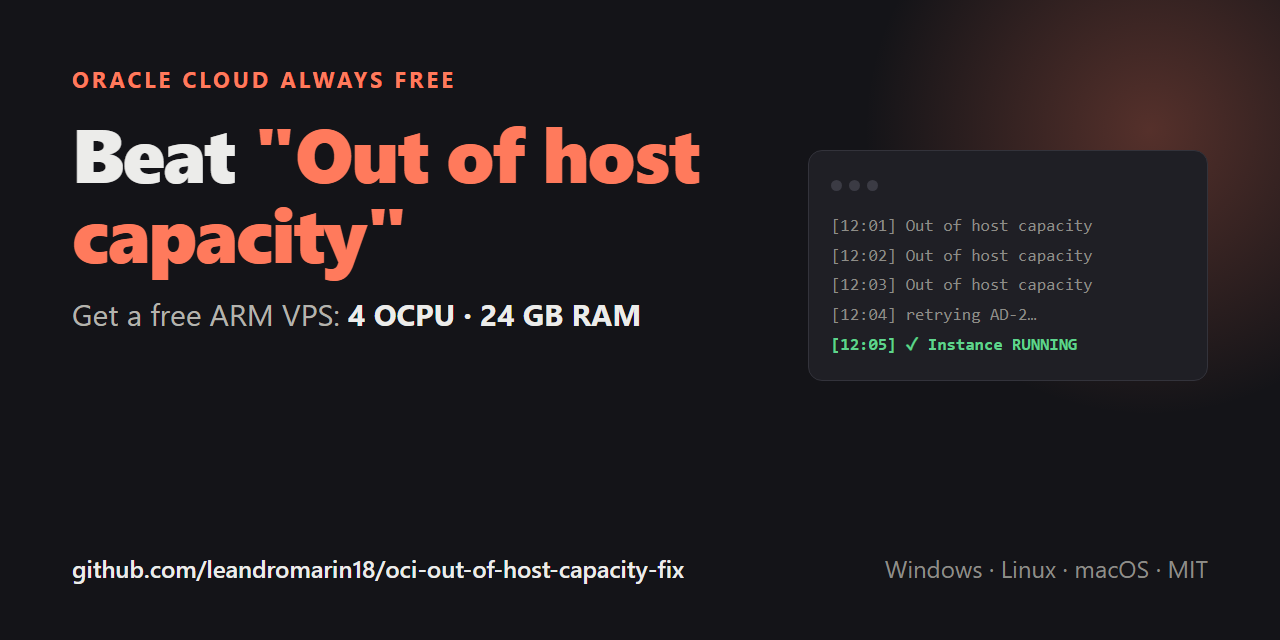
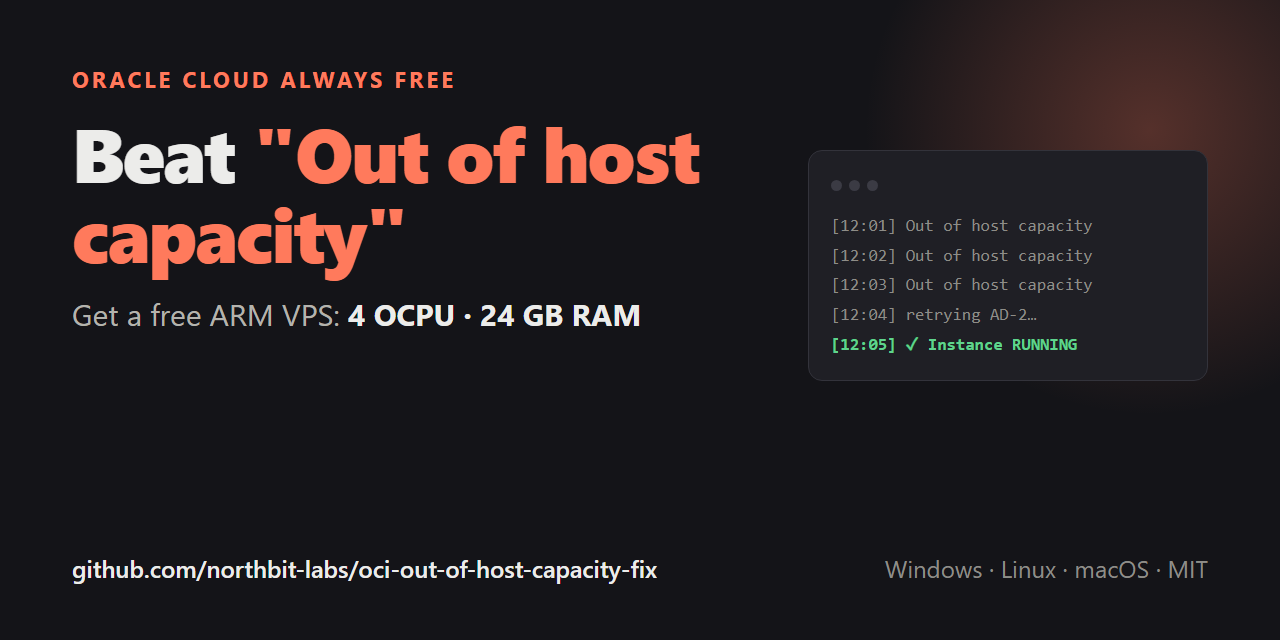
docs: move links to northbit-labs

Changed region(s): [[0.1562, 0.875, 0.5312, 0.9062]]

diff --git a/docs/index.html b/docs/index.html
@@ -5,13 +5,13 @@
 <meta name="viewport" content="width=device-width, initial-scale=1">
 <title>Fix "Out of host capacity" – Oracle Cloud Free Tier ARM VPS</title>
 <meta name="description" content="Get a free Oracle Cloud ARM VPS (Ampere A1, 4 OCPU / 24 GB RAM) despite &quot;Out of host capacity&quot;. Open-source launcher that retries every minute on Windows, Linux and macOS.">
-<link rel="canonical" href="https://leandromarin18.github.io/oci-out-of-host-capacity-fix/">
-<link rel="alternate" hreflang="en" href="https://leandromarin18.github.io/oci-out-of-host-capacity-fix/">
+<link rel="canonical" href="https://northbit-labs.github.io/oci-out-of-host-capacity-fix/">
+<link rel="alternate" hreflang="en" href="https://northbit-labs.github.io/oci-out-of-host-capacity-fix/">
 <meta property="og:type" content="website">
 <meta property="og:title" content="Fix &quot;Out of host capacity&quot; on Oracle Cloud Free Tier">
 <meta property="og:description" content="Free ARM VPS, 4 OCPU / 24 GB RAM. This launcher retries until Oracle has room, then notifies you.">
-<meta property="og:url" content="https://leandromarin18.github.io/oci-out-of-host-capacity-fix/">
-<meta property="og:image" content="https://leandromarin18.github.io/oci-out-of-host-capacity-fix/og-image.png">
+<meta property="og:url" content="https://northbit-labs.github.io/oci-out-of-host-capacity-fix/">
+<meta property="og:image" content="https://northbit-labs.github.io/oci-out-of-host-capacity-fix/og-image.png">
 <meta property="og:image:width" content="1280">
 <meta property="og:image:height" content="640">
 <meta property="og:image:alt" content="Beat &quot;Out of host capacity&quot;: get a free Oracle Cloud ARM VPS with 4 OCPU and 24 GB RAM">
@@ -25,8 +25,8 @@
   "applicationCategory": "DeveloperApplication",
   "operatingSystem": "Windows, Linux, macOS",
   "license": "https://opensource.org/licenses/MIT",
-  "codeRepository": "https://github.com/leandromarin18/oci-out-of-host-capacity-fix",
-  "url": "https://leandromarin18.github.io/oci-out-of-host-capacity-fix/",
+  "codeRepository": "https://github.com/northbit-labs/oci-out-of-host-capacity-fix",
+  "url": "https://northbit-labs.github.io/oci-out-of-host-capacity-fix/",
   "offers": { "@type": "Offer", "price": "0", "priceCurrency": "USD" }
 }
 </script>
@@ -64,8 +64,8 @@ footer{margin-top:56px;padding-top:20px;border-top:1px solid var(--line);font-si
   but the console usually answers <strong>"Out of host capacity"</strong>. This open-source launcher retries for you
   every minute until Oracle has room, then notifies you. It works on <strong>Windows, Linux and macOS</strong>.</p>
   <div class="cta">
-    <a class="btn primary" href="https://github.com/leandromarin18/oci-out-of-host-capacity-fix">View on GitHub</a>
-    <a class="btn" href="https://github.com/leandromarin18/oci-out-of-host-capacity-fix/archive/refs/heads/main.zip">Download ZIP</a>
+    <a class="btn primary" href="https://github.com/northbit-labs/oci-out-of-host-capacity-fix">View on GitHub</a>
+    <a class="btn" href="https://github.com/northbit-labs/oci-out-of-host-capacity-fix/archive/refs/heads/main.zip">Download ZIP</a>
   </div>
 
   <h2>What it does</h2>
@@ -84,7 +84,7 @@ footer{margin-top:56px;padding-top:20px;border-top:1px solid var(--line);font-si
 <pre><code>powershell -ExecutionPolicy Bypass -File setup_windows.ps1
 powershell -ExecutionPolicy Bypass -File start_windows.ps1</code></pre>
   <h3>Linux / macOS</h3>
-<pre><code>git clone https://github.com/leandromarin18/oci-out-of-host-capacity-fix
+<pre><code>git clone https://github.com/northbit-labs/oci-out-of-host-capacity-fix
 cd oci-out-of-host-capacity-fix
 python3.12 -m venv .venv &amp;&amp; . .venv/bin/activate
 pip install -r requirements.txt
@@ -102,7 +102,7 @@ nohup python main.py &gt; python_error.log 2&gt;&amp;1 &amp;</code></pre>
   <h3>How long does it take?</h3>
   <p>It depends on the region. In busy regions it can take hours or days, so the computer running the launcher must stay on.</p>
   <h3>¿Está en español?</h3>
-  <p>Sí. La guía completa en español está en el <a href="https://github.com/leandromarin18/oci-out-of-host-capacity-fix#español">README</a>.</p>
+  <p>Sí. La guía completa en español está en el <a href="https://github.com/northbit-labs/oci-out-of-host-capacity-fix#español">README</a>.</p>
 
   <footer>
     MIT licensed. Based on <a href="https://github.com/mohankumarpaluru/oracle-freetier-instance-creation">mohankumarpaluru/oracle-freetier-instance-creation</a>.

diff --git a/README.md b/README.md
@@ -7,7 +7,7 @@ until Oracle has room — on **Windows, Linux or macOS** — and pops up a messa
 > Fork of [mohankumarpaluru/oracle-freetier-instance-creation](https://github.com/mohankumarpaluru/oracle-freetier-instance-creation)
 > (MIT, © 2023 Mohan Kumar Paluru). Thank you for the original work!
 
-**[Website](https://leandromarin18.github.io/oci-out-of-host-capacity-fix/)** · **[Español más abajo](#español)**
+**[Website](https://northbit-labs.github.io/oci-out-of-host-capacity-fix/)** · **[Español más abajo](#español)**
 
 ## What's new compared to the original
 
@@ -50,7 +50,7 @@ until Oracle has room — on **Windows, Linux or macOS** — and pops up a messa
 ## Quick start — Linux / macOS
 
 ```bash
-git clone https://github.com/leandromarin18/oci-out-of-host-capacity-fix && cd oci-out-of-host-capacity-fix
+git clone https://github.com/northbit-labs/oci-out-of-host-capacity-fix && cd oci-out-of-host-capacity-fix
 python3.12 -m venv .venv && . .venv/bin/activate
 pip install -r requirements.txt
 python setup_wizard.py
